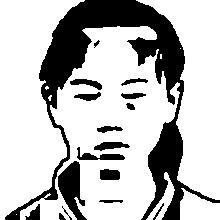
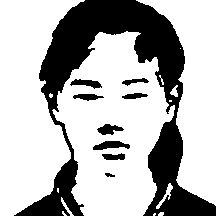
17.10.27 17:00

diff --git a/faceFeature/partitionMethod.py b/faceFeature/partitionMethod.py
@@ -124,7 +124,7 @@ def skinModel(srcImg):
                 ########################################################################
             # skin color detection
             #if Cb >= 80 and Cb <= 127 and Cr >= 141 and Cr <= 173:
-            if Cb >= 80 and Cb <= 127 and Cr >= 137 and Cr <= 173:
+            if Cb >= 80 and Cb <= 127 and Cr >= 143 and Cr <= 173:
                 skin = 1
                 # print 'Skin detected!'
             if 0 == skin:
@@ -161,13 +161,29 @@ def tailorImg(img,faces):
             #cv2.imshow("new_img",new_img)
             return new_img
 #计算肤色部分的平均亮度
-def meanBrightness(imgSKIN,imgGRAY):
+def meanBrightness_copy(imgSKIN,imgGRAY):
     sp = imgSKIN.shape
     brightness = 0
     count = 0
     for i in range(sp[0]):
         for j in range(sp[1]):
-           if imgSKIN[i,j] >100:
+           if imgSKIN[i,j] >100 and imgGRAY[i,j]<150:
+               brightness += imgGRAY[i,j]
+               count +=1
+    if count !=0:
+        return count,brightness/count
+    else:
+        return count,0
+def meanBrightness(imgSKIN,imgGRAY):
+    #先得一个有容错的灰度均值
+    #err_mean = meanBrightness_copy(imgSKIN,imgGRAY);
+    #print(err_mean)
+    sp = imgSKIN.shape
+    brightness = 0
+    count = 0
+    for i in range(sp[0]):
+        for j in range(sp[1]):
+           if imgSKIN[i,j] >100:# and imgGRAY[i,j]<err_mean[1]+70:
                brightness += imgGRAY[i,j]
                count +=1
     if count !=0:
@@ -199,9 +215,12 @@ def skeletonComplete(imgResult,imgSKIN,imgFace):
     new_skin = cv2.dilate(new_skin, kernel)
     new_skin = cv2.erode(new_skin, kernel)
     new_skin = cv2.erode(new_skin, kernel)
-    new_skin = RemoveSmallRegion(new_skin,3000,0,1)
+    new_skin = cv2.erode(new_skin, kernel)
+    new_skin = cv2.dilate(new_skin, kernel)
 
+    new_skin = RemoveSmallRegion(new_skin,3000,0,1)
     count,maxth = getMaxArea(new_skin)
+    cv2.imshow("beforeRemoveLargestArea",new_skin)
     print("最大面积:",maxth,count)
     if count != 1:
         new_skin = RemoveSmallRegion(new_skin,maxth-1000,1,1)
@@ -432,13 +451,13 @@ def computeEdgesPoint(img):
             sum +=1
     temp = point/sum
     if temp > 0 and temp<=0.05:
-        return 7*temp
-    elif temp> 0.05 and temp<=0.1:
         return 5*temp
+    elif temp> 0.05 and temp<=0.1:
+        return 3*temp
     elif temp>0.1 and temp<=0.2:
-        return 2.5*temp
+        return 1.5*temp
     elif temp>0.3 and temp<=0.4:
-        return 1.4*temp
+        return 1.1*temp
     else:
         return temp
 #分区结合边缘检测的方法来进行二值化
@@ -447,7 +466,7 @@ def divisionThreshold(imgSKIN,imgFace,imgCanny,imgHair):
 
     print("平均亮度",theta)
     sp = imgSKIN.shape
-    divisionCount = math.floor(sp[1]/20)
+    divisionCount = math.floor(sp[1]/6)
     #初始化数组大小
     imgSegment = [None] * divisionCount
     imgSkinSegment = [None] * divisionCount
@@ -474,7 +493,12 @@ def divisionThreshold(imgSKIN,imgFace,imgCanny,imgHair):
                 edges = imgCanny[i*new_h:(i+1)*new_h,j*new_w:(j+1)*new_w]
                 #计算在这一小块中边缘点为多少个
                 edgesPointPercent = computeEdgesPoint(edges)
-                imgSegment[i][j] = myThreshold(imgSegment[i][j],imgSkinSegment[i][j],skinPoint,(1+edgesPointPercent)*gamma*(lamda*max_th+bata*min_th))
+                if alpha>theta:
+                    #尽量往上
+                    imgSegment[i][j] = myThreshold(imgSegment[i][j],imgSkinSegment[i][j],skinPoint,(1+edgesPointPercent)*gamma*(lamda*max_th+bata*min_th))
+                else:
+                    #尽量往下
+                    imgSegment[i][j] = myThreshold(imgSegment[i][j],imgSkinSegment[i][j],skinPoint,(1+edgesPointPercent)*gamma*(lamda1*max_th+bata1*min_th))
     for i in range(divisionCount):
         for j in range(divisionCount):
             dst[i*new_h:(i+1)*new_h,j*new_w:(j+1)*new_w]=imgSegment[i][j]
@@ -533,12 +557,12 @@ def processImg(img):
     ####################################################
     #对肤色图进行修剪
     #skinTemp = cv2.erode(imgFace_Skin, kernel)
-    imgFace_Skin = RemoveSelectRegion(imgFace_Skin,100,0,1,1)
+    #imgFace_Skin = RemoveSelectRegion(imgFace_Skin,100,0,1,1)
     #imgFace_Skin = cv2.dilate(imgFace_Skin, kernel)
     #imgFace_Skin = cv2.dilate(imgFace_Skin, kernel)
 
     #harlan
-    imgFace_Skin = RemoveSelectRegion(imgFace_Skin,3000,100,0,1)
+    imgFace_Skin = RemoveSelectRegion(imgFace_Skin,4000,0,0,1)
     imgHair = hairProcess(imgFace)
     cv2.imshow("skinTemp", imgFace_Skin)
 
@@ -556,7 +580,7 @@ def processImg(img):
 #整套图片处理
 def createResult():
     i = 1
-    while i <= 68:
+    while i <= 72:
         print(i)
         img = cv2.imread("img/" + str(i) + ".jpg", 1)
         img = cv2.medianBlur(img,3)
@@ -569,21 +593,22 @@ def createResult():
         i = i + 1
 #单个图片处理
 def unitTest():
-    img = cv2.imread("img/53.jpg",1)
+    img = cv2.imread("img/16.jpg",1)
     img = cv2.medianBlur(img,3)
-
     dst = processImg(img)
     img = cv2.medianBlur(img,3)
 
     dst = RemoveSelectRegion(dst,20,0,0,1)
     dst = delete_jut(dst,1,1,1)
     dst = delete_jut(dst,1,1,0)
+
     cv2.imshow("result",dst)
     print(dst.shape)
 if __name__ == '__main__':
-    gamma = 0.580
-    lamda = 0.6600
-    bata = 0.3400
-    createResult()
+    gamma = 0.700
+    lamda = 0.7000
+    bata = 0.3000
+    lamda1 = 0.35000
+    bata1 = 0.65000
+    unitTest()
     cv2.waitKey(0)
-
